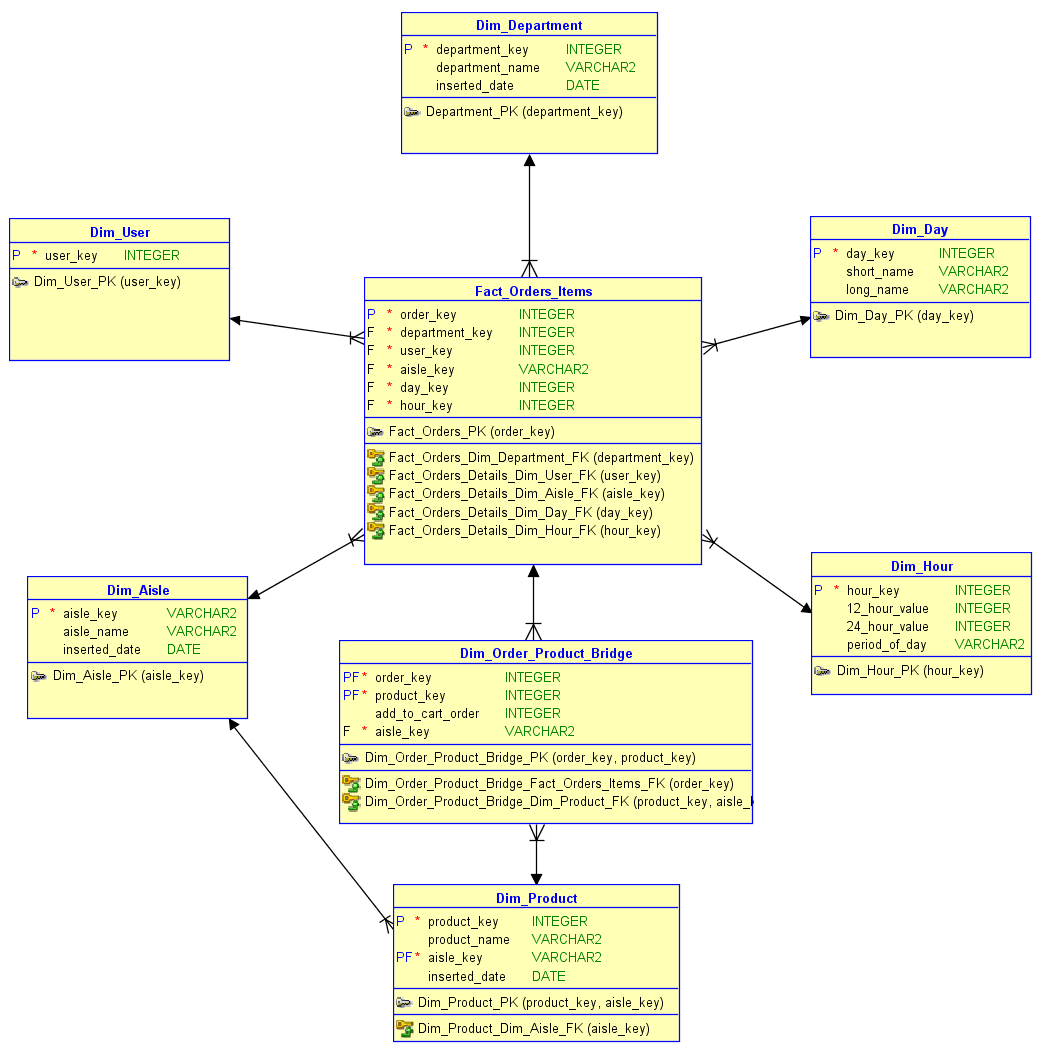
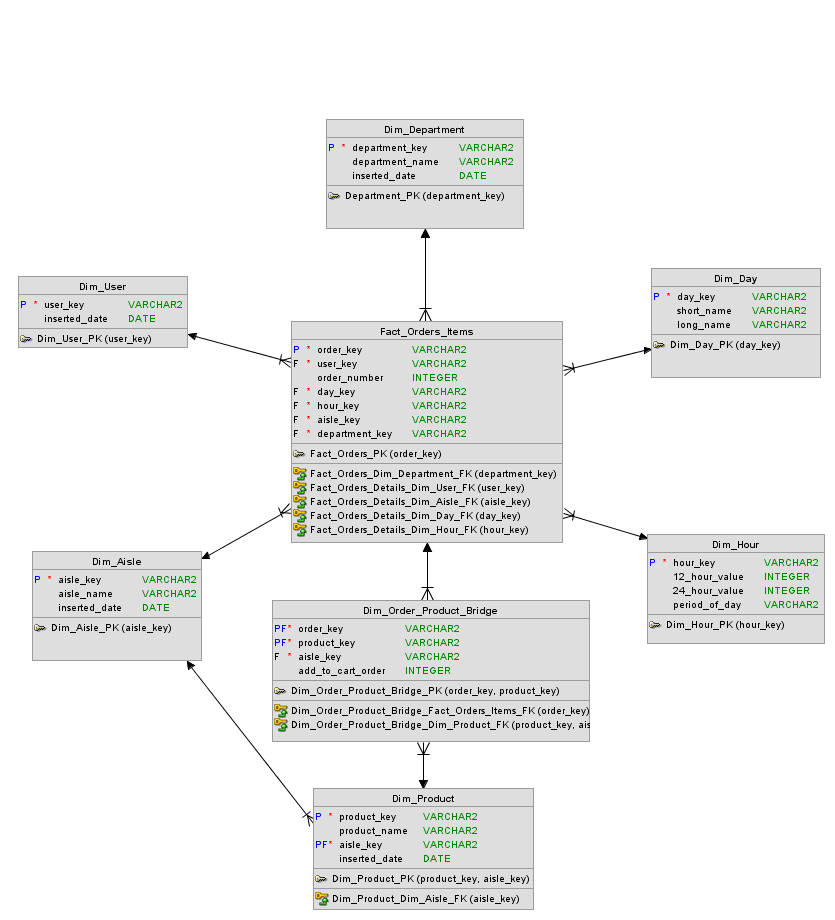
Updating Readme

diff --git a/factProcess/fact-order-items.py b/factProcess/fact-order-items.py
@@ -1,7 +1,7 @@
+from pyspark.sql.types import IntegerType
 from commonFunctions.helpers import create_spark_session
-from pyspark.sql.functions import *
+from pyspark.sql import functions as F
 import configparser
-
 
 def fullLoad(s3,spark):
     """
@@ -37,10 +37,21 @@ def fullLoad(s3,spark):
         .withColumnRenamed("ORDER_ID", "order_key") \
         .withColumnRenamed("USER_ID", "user_key") \
         .withColumnRenamed("ORDER_NUMBER", "order_number") \
-        .withColumnRenamed("ORDER_DOW", "day_key") \
-        .withColumnRenamed("ORDER_HOUR_OF_DAY", "hour_key") \
+        .withColumn("day_key",F.when(F.col("ORDER_DOW")=='Sunday',0)\
+                    .when(F.col("ORDER_DOW")=='Monday',1)\
+                    .when(F.col("ORDER_DOW") == 'Tuesday', 2)\
+                    .when(F.col("ORDER_DOW") == 'Wednesday', 3)\
+                    .when(F.col("ORDER_DOW") == 'Thursday', 4)\
+                    .when(F.col("ORDER_DOW") == 'Friday', 5)\
+                    .when(F.col("ORDER_DOW") == 'Saturday', 6)\
+                    .otherwise(F.col("ORDER_DOW"))) \
+        .drop("ORDER_DOW") \
+        .withColumn("hour_key", F.when(F.col("ORDER_HOUR_OF_DAY") == '24', '00') \
+                    .otherwise(F.col("ORDER_HOUR_OF_DAY"))) \
+        .drop("ORDER_HOUR_OF_DAY") \
         .fillna({'department_key': '-1'}) \
-        .fillna({'aisle_key': '-1'})
+        .fillna({'aisle_key': '-1'})\
+        .select("order_key","user_key","order_number","day_key","hour_key","aisle_key","department_key")
 
     newFact.write.parquet(s3 + "/presentation_layer/fact_order_items", mode="overwrite")
 
@@ -84,10 +95,21 @@ def incrementalLoad(s3,spark):
         .withColumnRenamed("ORDER_ID", "order_key") \
         .withColumnRenamed("USER_ID", "user_key") \
         .withColumnRenamed("ORDER_NUMBER", "order_number") \
-        .withColumnRenamed("ORDER_DOW", "day_key") \
-        .withColumnRenamed("ORDER_HOUR_OF_DAY", "hour_key") \
+        .withColumn("day_key",F.when(F.col("ORDER_DOW")=='Sunday',0)\
+                    .when(F.col("ORDER_DOW")=='Monday',1)\
+                    .when(F.col("ORDER_DOW") == 'Tuesday', 2)\
+                    .when(F.col("ORDER_DOW") == 'Wednesday', 3)\
+                    .when(F.col("ORDER_DOW") == 'Thursday', 4)\
+                    .when(F.col("ORDER_DOW") == 'Friday', 5)\
+                    .when(F.col("ORDER_DOW") == 'Saturday', 6)\
+                    .otherwise(F.col("ORDER_DOW")))\
+        .drop("ORDER_DOW") \
+        .withColumn("hour_key", F.when(F.col("ORDER_HOUR_OF_DAY") == '24', '00')\
+                    .otherwise(F.col("ORDER_HOUR_OF_DAY")))\
+        .drop("ORDER_HOUR_OF_DAY") \
         .fillna({'department_key': '-1'}) \
-        .fillna({'aisle_key': '-1'}).union(currentFact)
+        .fillna({'aisle_key': '-1'}).union(currentFact)\
+        .select("order_key", "user_key", "order_number", "day_key", "hour_key", "aisle_key", "department_key")
 
     newFact.write.parquet(s3 + "/tmp/fact_order_items_tmp", mode="overwrite")
     spark.read.parquet(s3 + "/tmp/fact_order_items_tmp") \

diff --git a/README.md b/README.md
@@ -1,3 +1,26 @@
-#AS - Assesment
-## Dimensional Model
+# AS - Technical Assesment
+The objective of the project is build a dimensional model to provide insights to the business. The data sources are a csv and a json file placed in the S3 Raw Layer. All the pipeline files have been written in Python for the Pyspark.
+
+## Important Links
+ - [PowerBi Dashboard](https://app.powerbi.com/view?r=eyJrIjoiNWUxYWY1ZWEtNjBmMi00OThmLWE2MjUtYmFhZjYwMTg0NjI5IiwidCI6ImRlNTIzZmMwLWNjNTctNGFlNS04YzhjLTAxZWFkMjEyYWIzMyJ9)
+ - [Google Drive Resources Folder](#)
+## About the Data Model
+### Dimensional Model
+The business requirements have been transformed in the next Kimball Star:
+
 ![alt text](readme-resources\dmodel.png)
+
+### Data Dictionary
+#### Dim Department
+Catalog for all the departments in the dataset. 
+- **The Distribution is Auto**, let's redshift decide how to distribute this table based on the size
+- **Uniqueness Policy**,the etl search for new records every incremental load and append them if exists. A new key is generated.
+
+| Column Name     | Type   | Source                 | Comment                                     | Sample                              |
+|-----------------|--------|------------------------|---------------------------------------------|-------------------------------------|
+| department_key  | String | -                      | Surrogate Key Generated                     | 68d2e3f-6e13-463a-9048-bbb85acc076e |
+| department_name | String | products.json => aisle |                                             | frozen                              |
+| inserted_date   | Date   | -                      | Execution Date where the record is inserted | 2020/07/17                          |
+
+#### Dim Aisle
+Catalog for all the aisles in the dataset. The Distribution is Auto, let's redshift decide how to distribute this table based on the size
